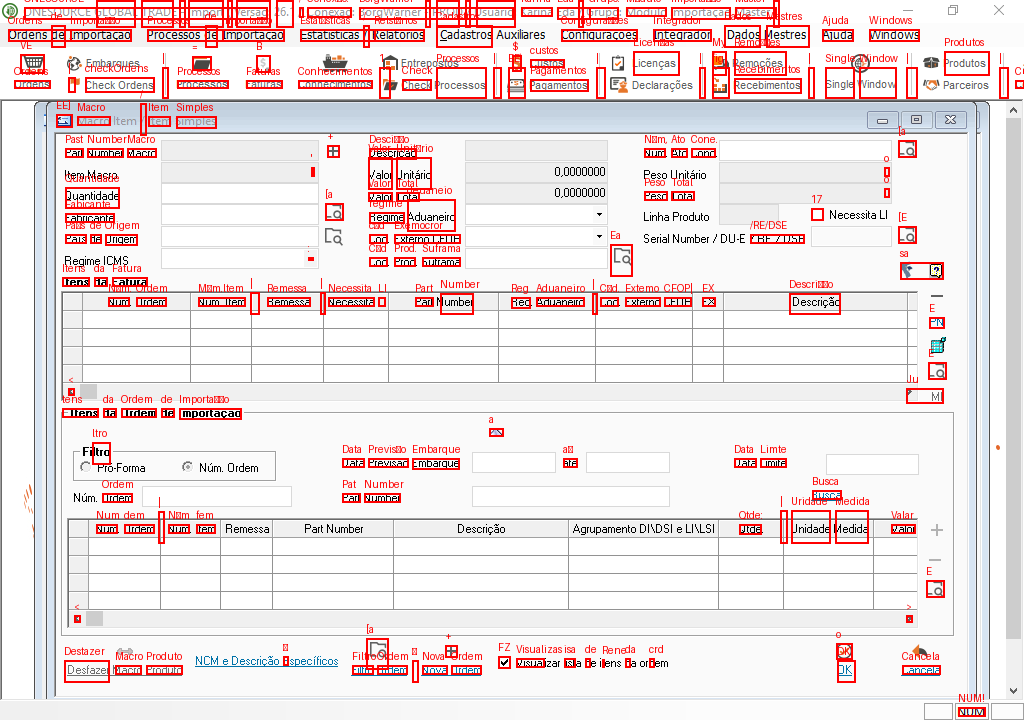
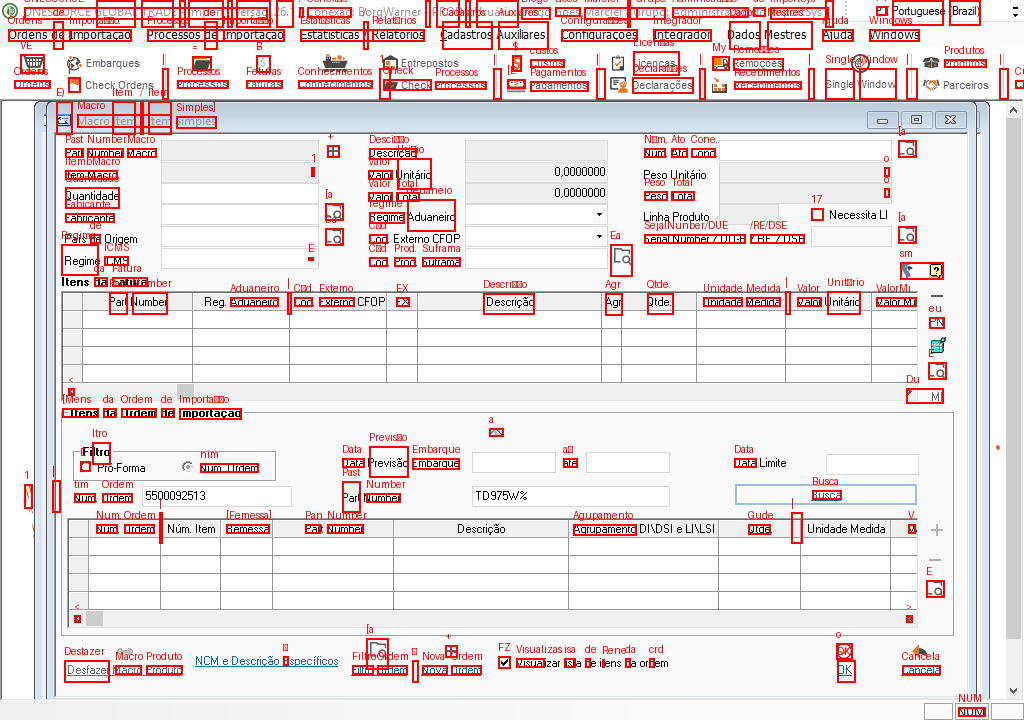
Versão estável para testes do ajuste do valor

diff --git a/models/automacao_cliques.py b/models/automacao_cliques.py
@@ -2198,7 +2198,7 @@ class AutomacaoOCR:
         # Clique numa coluna “segura” (não-Qtde) na linha destacada, se precisar.
         # Se você realmente precisa clicar em Qtde, mantenha x_rel_qtde_click.
         #x_rel_qtde_click=971, # 1366x768
-        x_rel_qtde_click=795, # 1024x768
+        x_rel_qtde_click=660, # 1024x768
 
         pausar_pos_end=0.3,
         pausar_entre_teclas=0.1,
@@ -2265,6 +2265,54 @@ class AutomacaoOCR:
         self.limpar_cache_ocr()
         time.sleep(0.2)
         return {"ok": True, "motivo": None, "qtde_colada": quantidade_txt, "y_rel_detectado": y_rel_click, "segmento_local": det["segmento"], "score_escuro": det["score_escuro"]}
+
+    def editar_valor_unitario_na_linha(
+        self,
+        valor_unitario_n8n,
+        y_rel_click,
+        x_rel_vunit_click=832,   # 1024x768 — coluna Valor Unitário
+        pausar_entre_teclas=0.1
+    ):
+        """
+        Cola o Valor Unitário vindo da fatura na linha JA SELECIONADA da grade.
+
+        Deve ser chamado LOGO APOS editar_qtde_ultimo_item_com_end, passando
+        o y_rel_click retornado por ela:
+
+            res_qtde = self.editar_qtde_ultimo_item_com_end(quantidade_n8n=qtde)
+            if res_qtde["ok"]:
+                self.editar_valor_unitario_na_linha(
+                    valor_unitario_n8n=vunit,
+                    y_rel_click=res_qtde["y_rel_detectado"]
+                )
+
+        Nao pressiona END nem detecta linha novamente.
+        Apenas clica em X=832 no mesmo Y, seleciona, apaga e cola o valor.
+        """
+        if not self.captura.janela_atual:
+            return {"ok": False, "motivo": "Nenhuma janela selecionada"}
+
+        # Clique direto na coluna Valor Unitario — mesma linha ja selecionada
+        x_abs, y_abs = self.captura.obter_posicao_absoluta(x_rel_vunit_click, y_rel_click)
+        pyautogui.click(x_abs, y_abs)
+        time.sleep(0.10)
+
+        pyautogui.hotkey("ctrl", "a")
+        time.sleep(pausar_entre_teclas)
+        pyautogui.press("delete")
+        time.sleep(pausar_entre_teclas)
+
+        # Formata como decimal pt-BR (ex.: '3,0000000000') — sem arredondamento inteiro
+        valor_txt = self._formatar_quantidade_para_erp(valor_unitario_n8n)
+
+        pyperclip.copy(valor_txt)
+        time.sleep(0.05)
+        pyautogui.hotkey("ctrl", "v")
+        time.sleep(0.5)
+
+        self.limpar_cache_ocr()
+        time.sleep(0.2)
+        return {"ok": True, "motivo": None, "vunit_colado": valor_txt, "y_rel_usado": y_rel_click}
     
     @staticmethod
     def data_iso_para_ddmmaaaa(data_iso: str) -> str:

diff --git a/monta_invoice.py b/monta_invoice.py
@@ -78,11 +78,11 @@ PREP_SAVE = {
 # =========================
 gerenciador = GerenciadorItens(base_url='https://n8n2.titoonline.com.br')
 
-if not gerenciador.carregar_do_n8n(fatura_id=47): #PARA TESTES
+if not gerenciador.carregar_do_n8n(fatura_id=59): #PARA TESTES
     raise Exception("❌ Falha ao carregar itens do N8N")
 
 # limitador de teste
-gerenciador.itens = gerenciador.itens#[:5]  # Processa apenas os primeiros 5 itens
+gerenciador.itens = gerenciador.itens#[:15]  # Processa apenas os primeiros 15 itens
 
 print(f"✅ {gerenciador.total_itens()} itens prontos para montar rascunho")
 print("=" * 60)
@@ -111,6 +111,9 @@ auto_ocr.arrastar_coluna_quantidade(780, 525, 797, 525, duracao_arraste=0.3, pau
 
 #auto_ocr.clicar_coordenadas_multiclick(1079, 392, clicks=4, intervalo=0.5, pausar=0.5) #coordenadas 1366x768
 auto_ocr.clicar_coordenadas_multiclick(908, 392, clicks=4, intervalo=0.5, pausar=0.5) #coordenadas 1024x768
+# arrastar coluna agrupamento, para visualizar as colunas
+# Qtde e Valor Unitario
+auto_ocr.arrastar_coluna_quantidade(762, 300, 620, 300, duracao_arraste=0.3, pausar=0.5) #coordenadas 1024x768
 
 # =========================
 # LOOP ITENS
@@ -198,7 +201,8 @@ while gerenciador.tem_proximo():
     #print(f"✅ PN {part_number} pronto para próxima etapa da montagem.")
     time.sleep(0.8)  # dá tempo da grade superior atualizar
     res_qtde = auto_ocr.editar_qtde_ultimo_item_com_end(quantidade_n8n=quantity)
-
+    auto_ocr.editar_valor_unitario_na_linha(valor_unitario_n8n=net_price, y_rel_click=res_qtde["y_rel_detectado"])
+    
     if not res_qtde["ok"]:
         print("❌ Falha ao editar Qtde:", res_qtde["motivo"])
 

diff --git a/login_sistema.py b/login_sistema.py
@@ -58,7 +58,8 @@ campo_user = wait.until(EC.visibility_of_element_located((By.ID, "username")))
 # preencher o campo de usuário
 campo_user.clear()
 #campo_user.send_keys("PJ4TLJ") # LOGIN NATHALIA
-campo_user.send_keys("FJMDNL") # LOGIN KARINA
+#campo_user.send_keys("FJMDNL") # LOGIN KARINA
+campo_user.send_keys("BZ5GRZ") # LOGIN DIEGO
 #campo_user.send_keys("PZJQ9S") # user PHINIA TESTE
 #campo_user.send_keys("HJ2J7R") # user PRODUCAO PHINIA
 
@@ -66,11 +67,14 @@ campo_user.send_keys("FJMDNL") # LOGIN KARINA
 campo_pw = wait.until(EC.visibility_of_element_located((By.ID, "password")))
 # preencher o campo de senha 
 campo_pw.clear()
-campo_pw.send_keys("Josafa2026abc@") # LOGIN KARINA
+#campo_pw.send_keys("Josafa2026abc@") # LOGIN KARINA
+campo_pw.send_keys("Agnes2026c!!") # LOGIN DIEGO
 #campo_pw.send_keys("Nathi2027!@#") # login nathalia
 #campo_pw.send_keys("renata01") # user PHINIA TESTE
 #campo_pw.send_keys("Start@DT1oj13") # user PRODUCAO PHINIA
 time.sleep(3)  # aguarda 3 segundos para a próxima etapa
+
+
 
 # clicar no botão de login
 # xpath do botão de login - //*[@id="submit-btn"]
